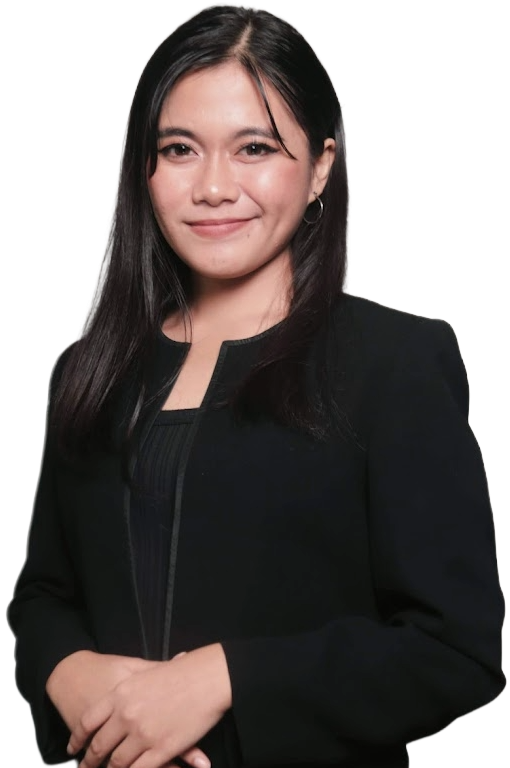
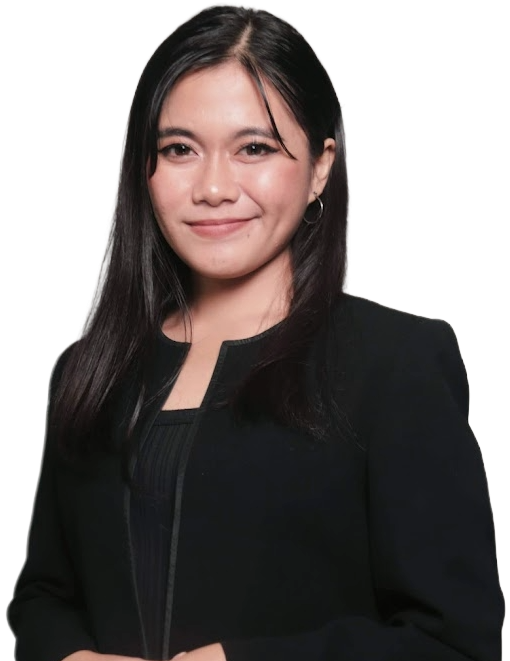
refactor: update bio content for clarity and impact; enhance project descriptions and tags

Changed region(s): [[0.0, 0.0, 1.0, 1.0], [0.7647, 0.7564, 0.8235, 0.8169], [0.2353, 0.6354, 0.2647, 0.6657]]

diff --git a/src/data/bio.ts b/src/data/bio.ts
@@ -1,6 +1,9 @@
 export const BIO = [
-  "I am an aspiring software engineer who builds full-stack web applications and integrates intelligent systems into real, deployed products. I'm comfortable across the stack — from database design and backend APIs to frontend interfaces — and I care about shipping software that is functional, intuitive, and genuinely useful.",
-  'My focus is practical AI integration: bringing machine learning models out of notebooks and into production systems where they solve real problems. I have worked on RAG-based assistants, computer vision pipelines, and predictive screening tools, always with an eye on how the intelligence fits into the larger application.',
-  "Beyond the code, I've led and managed teams across academic and production projects — organizing tasks, guiding frontend developers, and taking work from mockup to deployment. I thrive in collaborative environments and enjoy working with diverse perspectives and ideas.",
+  "Software engineering, to me, has always been about closing the gap between what technology can do and what people can actually benefit from it. With this in mind, I have committed myself to building real, deployed user-centric applications while also exploring the cutting edge of intelligent systems and how they can be integrated into products in practical ways.",
+
+  'My technical competencies span the software stack from database structure to backend APIs and frontend designs, with a growing focus on the implementation of machine learning algorithms. I have created RAG assistants, pipelines for computer vision, and screening systems.'
+,
+  "Alongside the technical expertise, I have accumulated significant experience in leading and managing people, from working in cross-functional teams to leading frontend development and steering projects from the mockup phase to its deployment. I'm highly effective in collaboration environments, where different perspectives sharpen both the problem definition and the solution.",
+
   'Looking ahead, I am excited to keep growing as an engineer and to contribute to ambitious projects that blend solid software engineering with intelligent systems.',
 ]

diff --git a/src/data/projects.ts b/src/data/projects.ts
@@ -135,16 +135,16 @@ export const OTHER: Project[] = [
   },
   {
     title: "ViscAnonymous",
-    description: "An anonymous note-sharing website for Viscans.",
+    description: "An anonymous note-sharing website for Viscans. Another focused experiment in frontend development and design.",
     highlights: [
       "Anonymous note-sharing platform built for the Viscan community",
     ],
-    tags: ["React", "Tailwind"],
+    tags: ["Vanilla JS", "HTML/CSS3"],
     liveUrl: "https://cloud-app-silkx.vercel.app/",
   },
   {
     title: "Weather Website",
-    description: "A focused tool or experiment. One or two sentences.",
+    description: "A focused tool or experiment with weather data using external APIs.",
     highlights: ["A small weather lookup web app."],
     tags: ["Node.js"],
     liveUrl: "weather-website-blue-delta.vercel.app",